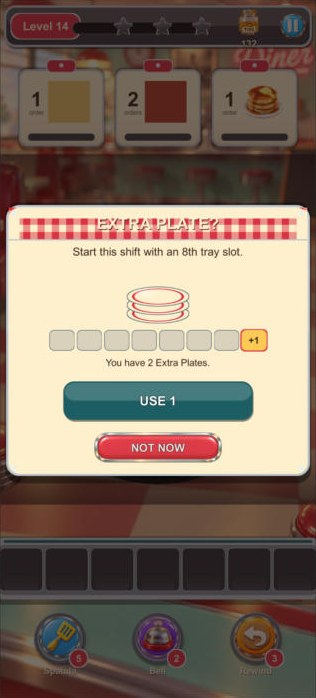
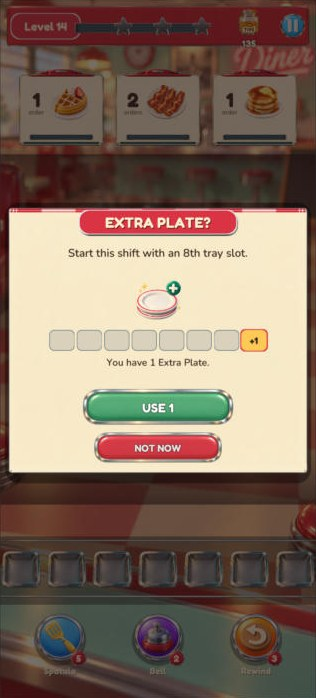
docs: after screenshots with the v002 art pack, progress note
Claude-Session: https://claude.ai/code/session_01HVSBM9w7MoxHkTiV5baanz

diff --git a/docs/PROGRESS.md b/docs/PROGRESS.md
@@ -33,7 +33,7 @@
 - **Start screen**: diner-sign logo (art `ui/rd3d_logo_retro_diner_3d_v001` or procedural bulb-lined sign), resource chips + compact gear top row, one dominant teal PLAY, LEVELS / STORE as small icon buttons, Tip Jar / punch-card / jukebox as small side widgets, background anchored to the bottom so the entrance stays in frame, build label hidden unless `cfg.showBuildLabel` or dev mode. Reduced Motion toggle added to Settings (profile `reducedMotion`).
 - **13A match-to-order animation** (`TrayView.FlyOutTriplet` + `TicketRailView` + `GameplayController`): 150 ms confirm glow + 110 % scale + sparkles on the three matched wells → staggered 60 ms lifts → 420 ms golden arcs (cream-centred fading trail, star particles, slight rotation, shrink) to the destination ticket's icon, which gets a gold outline at launch (`Anticipate`), an icon pulse + sparkle + animated count/progress on arrival (`Arrive`), or bar fill + check stamp + bounce + hold on completion (`AnimateComplete`). One "whoosh" at launch (new procedural clip), one bell only on completion, medium double-pulse haptic, coins animate to the Tip Jar and the counter ticks to the authoritative total (`HudView.CoinsToTipJar`). Flyers live on a non-raycast layer; the model resolves the match before any view runs; reduced motion = fade + ticket pulse. Golden Spatula keeps its belt→board flight.
 - Verified on the PC: compile clean; L1 (ring) three pancakes → ticket complete → Tip Jar 132→135 → win panel; L14 (figure-8) Extra Plate USE 1 → 8-slot tray, NOT NOW path; pause/menu/level map/win panels on the new modal frame. Before/after screenshots in `docs/screenshots/{before,after}/`.
-- Fonts: drop `Fredoka-Bold.ttf` / `Nunito-SemiBold.ttf` into `Assets/Resources/RetroDiner/Fonts/` and `UIBuilder` picks them up (built-in font until then).
+- **Art pack v002 landed the same day** (43 PNGs + Fredoka/Nunito TTFs in `Chat Gpt Images/` and `Assets/Fonts/`): `1. Import Art` now also copies the fonts into `Resources/RetroDiner/Fonts`, measures 9-slice borders for frames/bars/chips/buttons from the PNG's visible bounds, imports `env/` at 2048 and the belt tile as a repeating texture. Clipboard tickets are drawn whole at the art's aspect (the clip must not stretch) using the art's built-in track; the open chrome tray frame gets a brushed-steel inner panel; the 1080×2340 v002 background is preferred. All art slots in the brief are now filled; procedural fallbacks remain for anything missing.
 
 ## Next
 - Swap in the generated art from `docs/ASSET_REQUEST_V2.md` as it arrives (same filenames; everything falls back procedurally today). Capture the 13A flight on a real device recording for the acceptance test.
